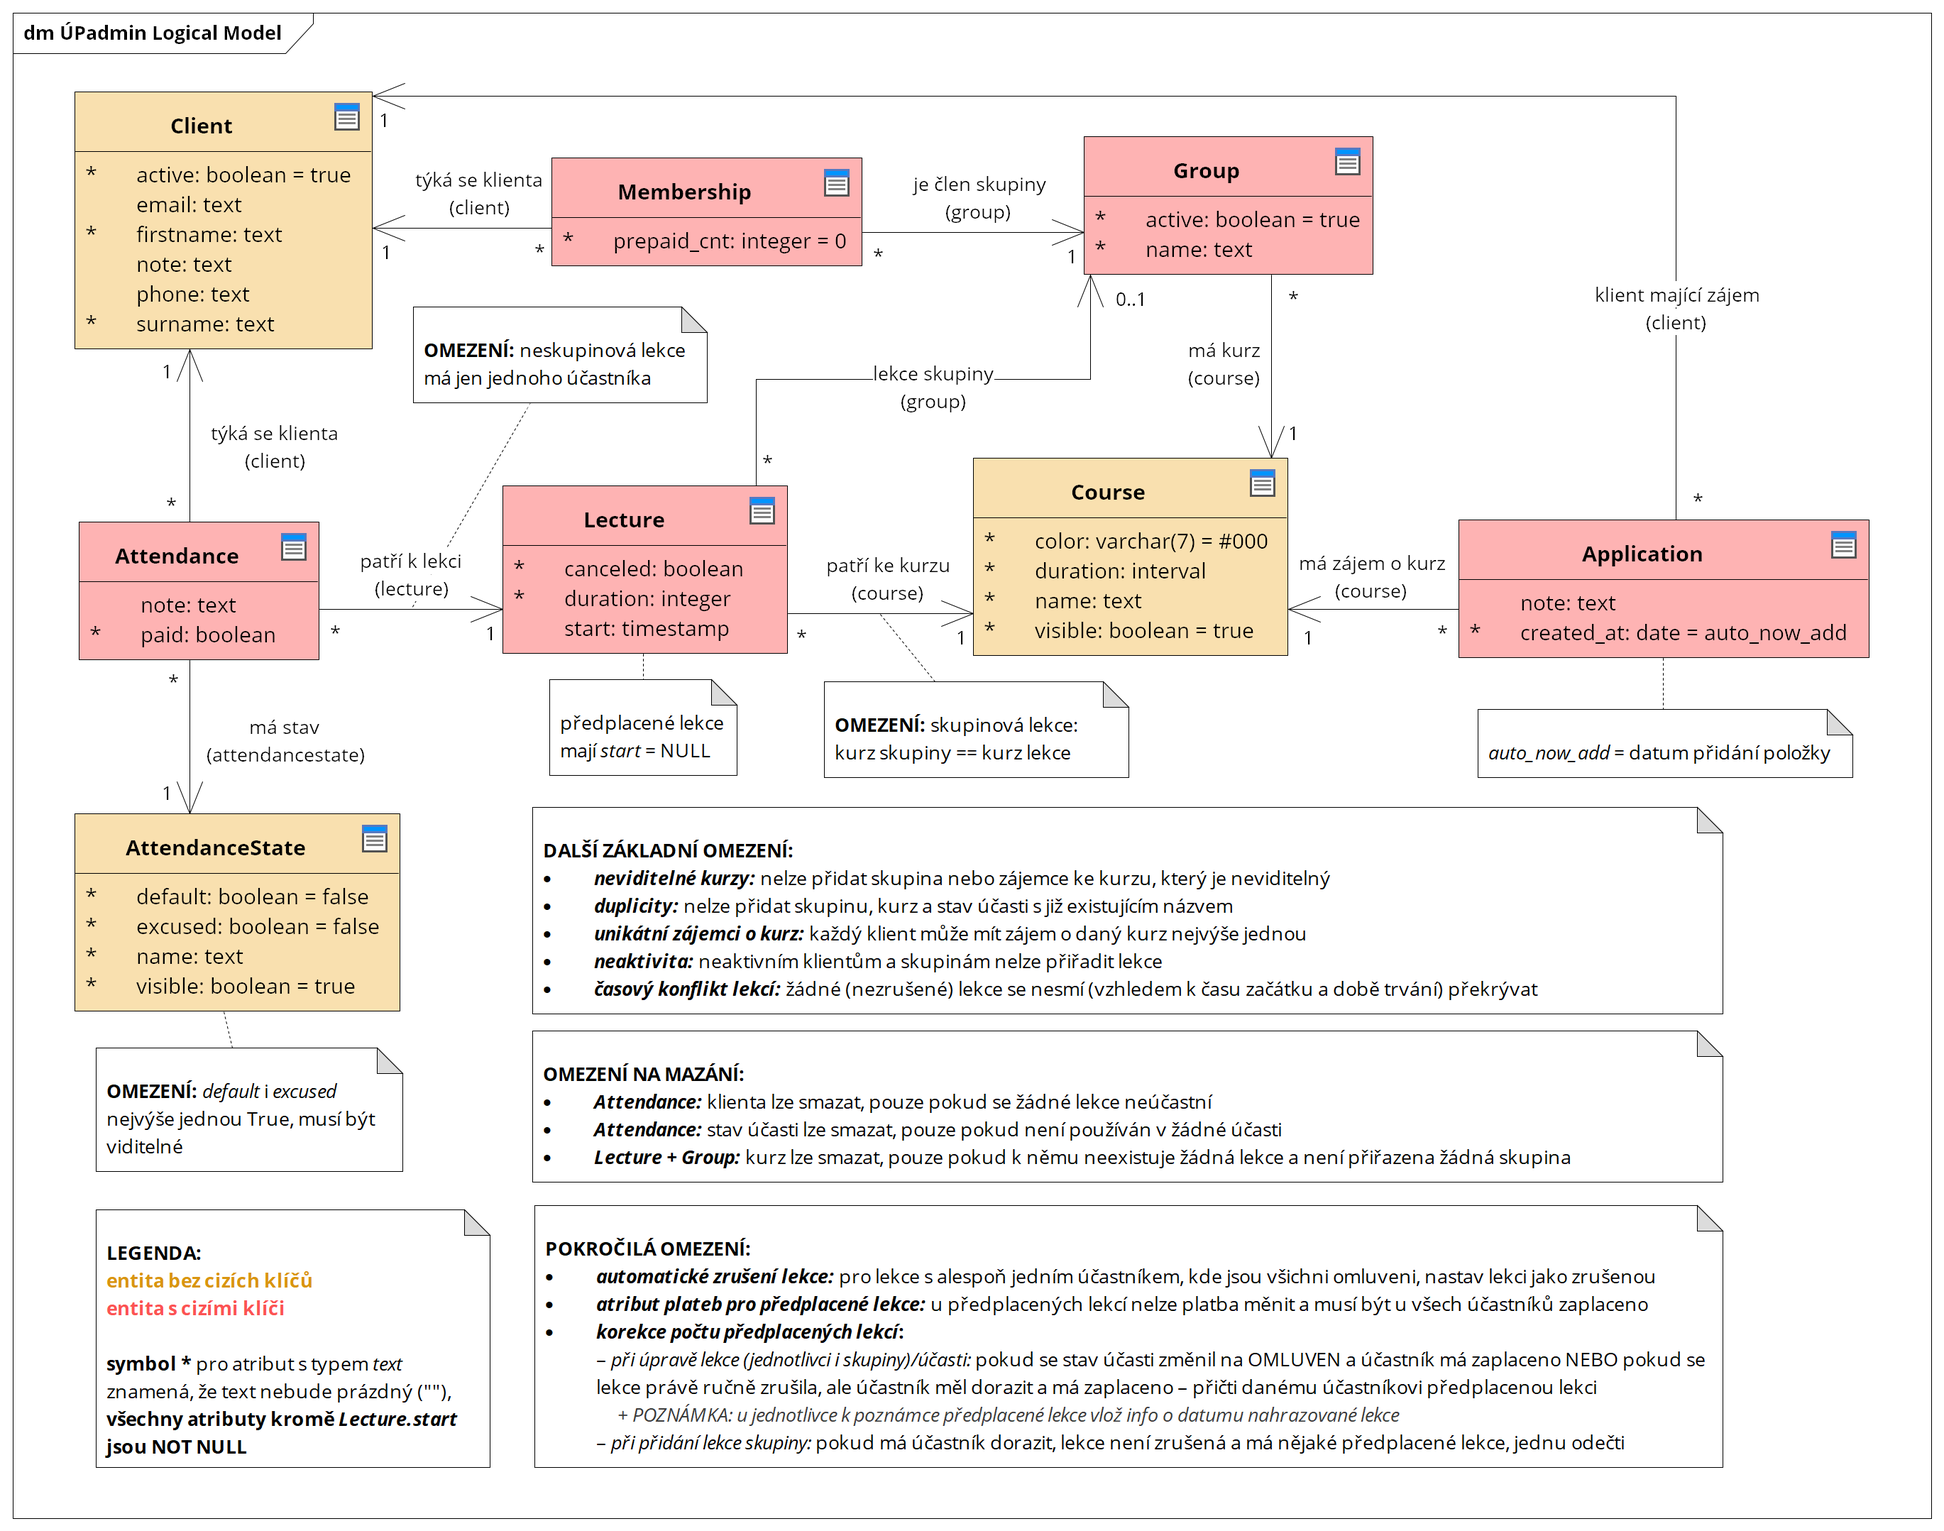
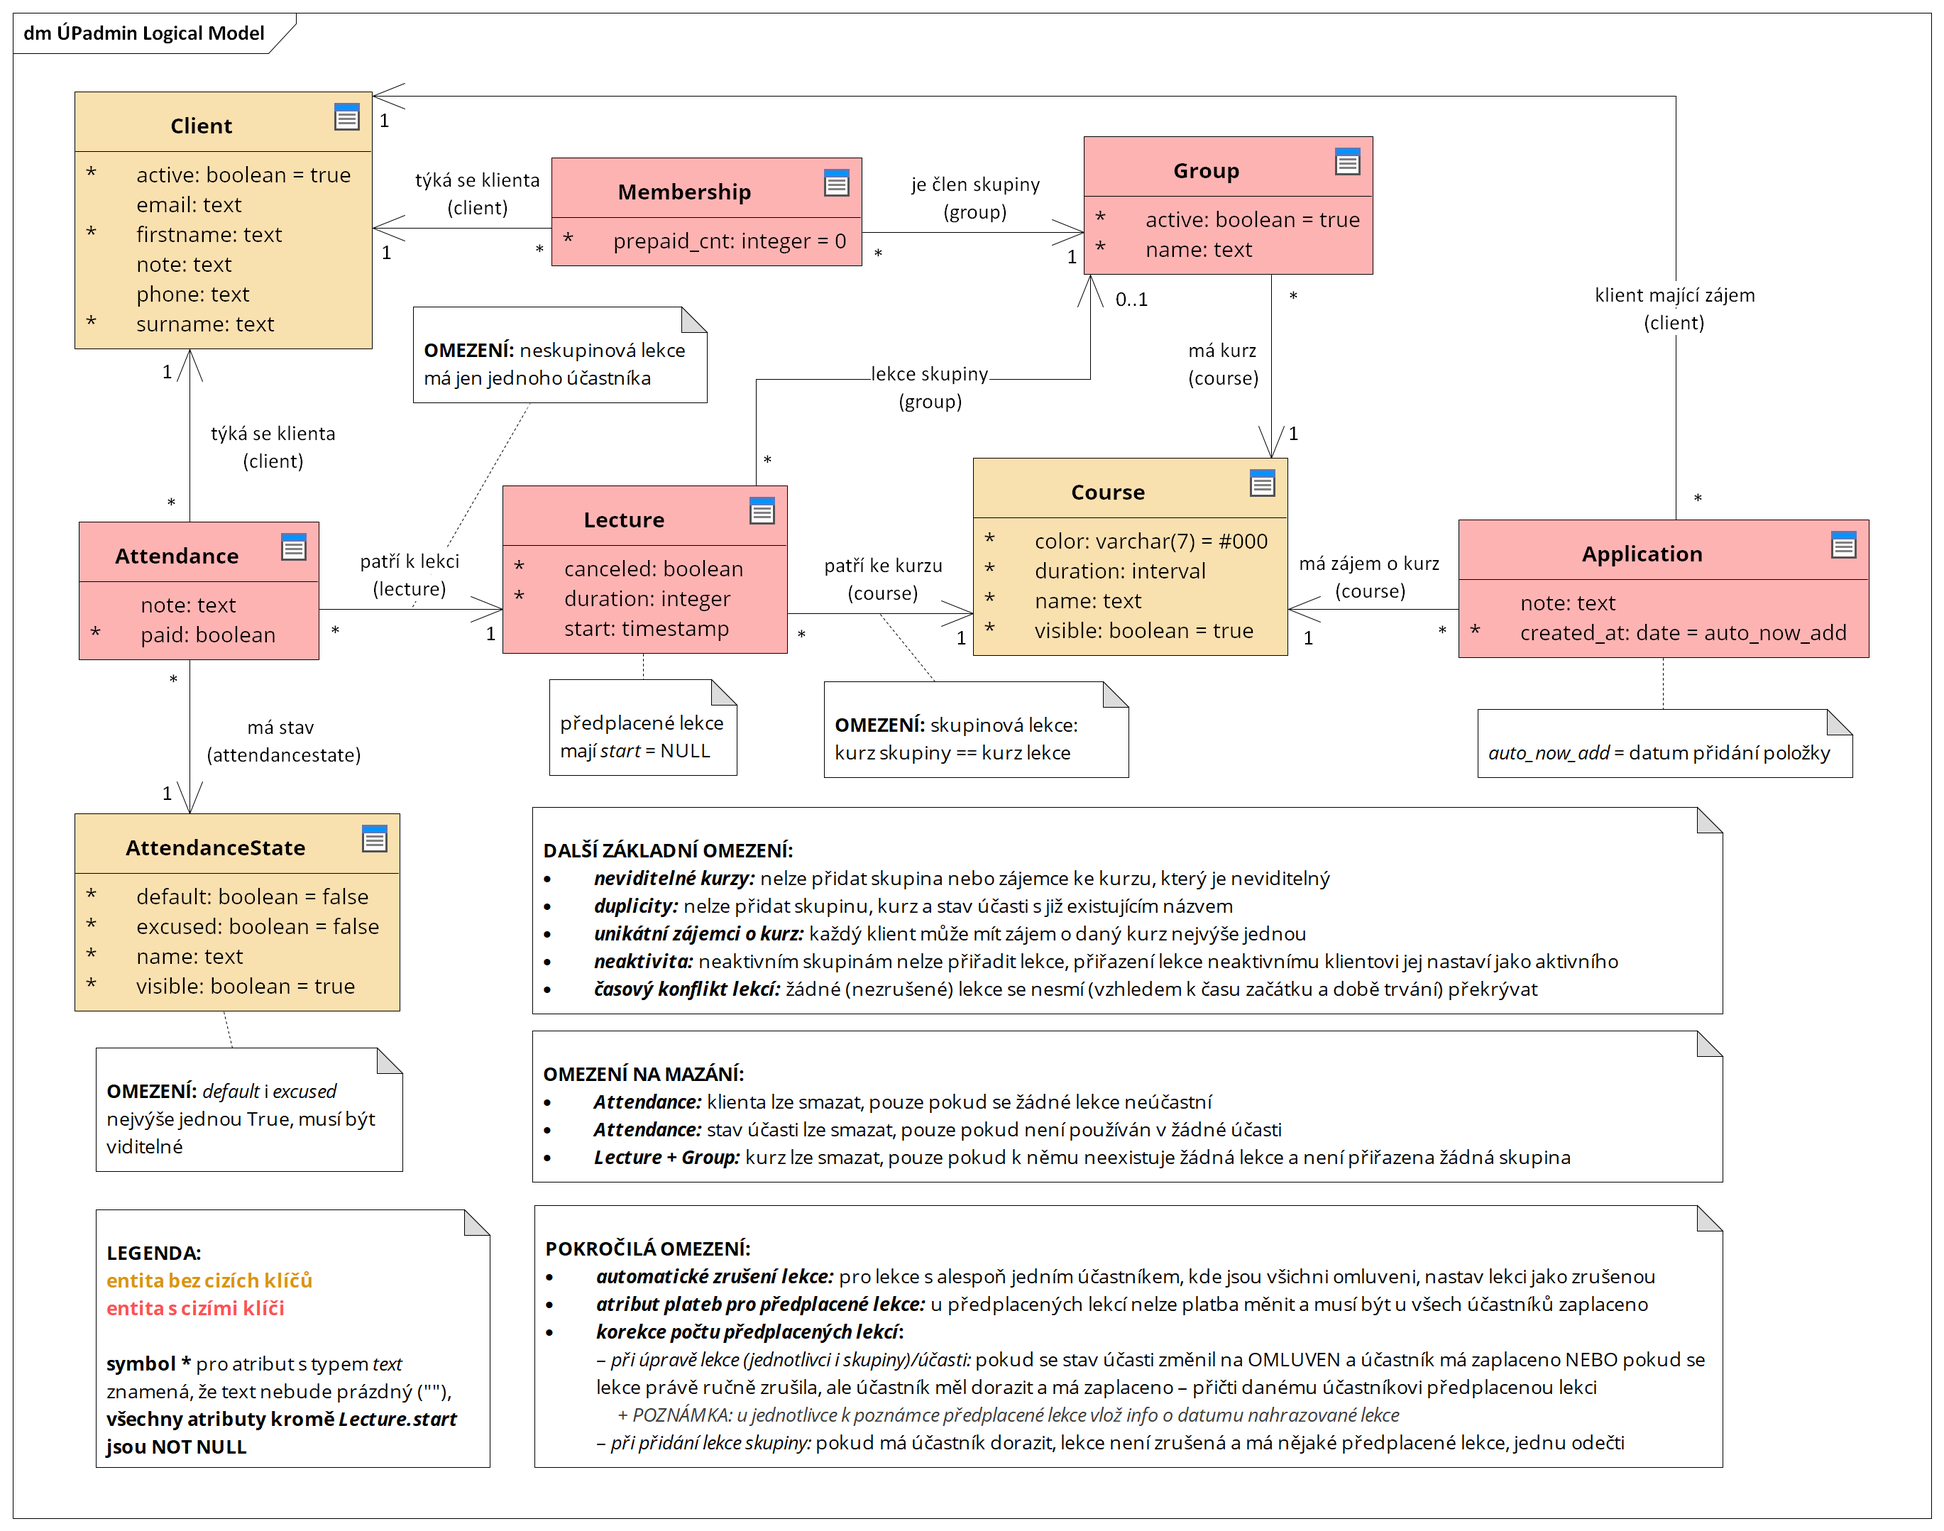
[js] auto nastaveni klienta jako aktivni pri pridani lekce
- nebylo validni pridat lekci neaktivnimu klientovi, to je zbytecne, staci ho udelat aktivnim kdyz se mu lekce pridava, protoze to je zjevne zamerne
- upravy upozorneni na neaktivitu napric aplikaci, dodani upozorneni do FormLectures.tsx

diff --git a/frontend/src/pages/Groups.tsx b/frontend/src/pages/Groups.tsx
@@ -1,5 +1,3 @@
-import { faExclamationTriangle } from "@fortawesome/pro-solid-svg-icons"
-import { FontAwesomeIcon } from "@fortawesome/react-fontawesome"
 import * as React from "react"
 import { Container, Table } from "reactstrap"
 import GroupService from "../api/services/group"
@@ -9,13 +7,14 @@ import CourseName from "../components/CourseName"
 import GroupName from "../components/GroupName"
 import Heading from "../components/Heading"
 import Loading from "../components/Loading"
-import UncontrolledTooltipWrapper from "../components/UncontrolledTooltipWrapper"
+import Tooltip from "../components/Tooltip"
 import {
     CoursesVisibleContextProps,
     WithCoursesVisibleContext
 } from "../contexts/CoursesVisibleContext"
 import { GroupsActiveContextProps, WithGroupsActiveContext } from "../contexts/GroupsActiveContext"
 import ModalGroups from "../forms/ModalGroups"
+import { TEXTS } from "../global/constants"
 import { areAllMembersActive } from "../global/utils"
 import { ModalGroupsData } from "../types/components"
 import { GroupType } from "../types/models"
@@ -100,27 +99,17 @@ class Groups extends React.Component<Props, State> {
                                             <GroupName group={group} link noWrap />{" "}
                                             {group.active &&
                                                 !areAllMembersActive(group.memberships) && (
-                                                    <>
-                                                        <UncontrolledTooltipWrapper
-                                                            placement="right"
-                                                            target={
-                                                                "Group_ActiveGroupWithInactiveClientAlert_" +
-                                                                group.id
-                                                            }>
-                                                            Ve skupině je neaktivní klient (přestože
-                                                            je skupina aktivní), není tedy možné
-                                                            přidávat lekce
-                                                        </UncontrolledTooltipWrapper>
-                                                        <FontAwesomeIcon
-                                                            id={
-                                                                "Group_ActiveGroupWithInactiveClientAlert_" +
-                                                                group.id
-                                                            }
-                                                            icon={faExclamationTriangle}
-                                                            className={"text-danger"}
-                                                            size="1x"
-                                                        />
-                                                    </>
+                                                    <Tooltip
+                                                        postfix={
+                                                            "Group_ActiveGroupWithInactiveClientAlert_" +
+                                                            group.id
+                                                        }
+                                                        placement="right"
+                                                        size="1x"
+                                                        text={
+                                                            TEXTS.WARNING_ACTIVE_GROUP_WITH_INACTIVE_CLIENTS
+                                                        }
+                                                    />
                                                 )}
                                         </td>
                                         <td>

diff --git a/frontend/src/components/PrepaidCounters.tsx b/frontend/src/components/PrepaidCounters.tsx
@@ -1,5 +1,3 @@
-import { faExclamationTriangle } from "@fortawesome/pro-solid-svg-icons"
-import { FontAwesomeIcon } from "@fortawesome/react-fontawesome"
 import * as React from "react"
 import {
     Col,
@@ -13,10 +11,11 @@ import {
     Row
 } from "reactstrap"
 import MembershipService from "../api/services/membership"
+import { TEXTS } from "../global/constants"
 import { MembershipType } from "../types/models"
 import ClientName from "./ClientName"
 import "./PrepaidCounters.css"
-import UncontrolledTooltipWrapper from "./UncontrolledTooltipWrapper"
+import Tooltip from "./Tooltip"
 
 type Props = {
     memberships: Array<MembershipType>
@@ -75,25 +74,14 @@ const PrepaidCounters: React.FC<Props> = props => {
                                 <h5>
                                     <ClientName client={membership.client} link />{" "}
                                     {props.isGroupActive && !membership.client.active && (
-                                        <>
-                                            <UncontrolledTooltipWrapper
-                                                target={
-                                                    "PrepaidCounters_InactiveClientAlert_" +
-                                                    membership.client.id
-                                                }>
-                                                Tento klient není aktivní (přestože skupina aktivní
-                                                je), není tedy možné přidávat této skupině lekce
-                                            </UncontrolledTooltipWrapper>
-                                            <FontAwesomeIcon
-                                                id={
-                                                    "PrepaidCounters_InactiveClientAlert_" +
-                                                    membership.client.id
-                                                }
-                                                icon={faExclamationTriangle}
-                                                className={"text-danger"}
-                                                size="1x"
-                                            />
-                                        </>
+                                        <Tooltip
+                                            postfix={
+                                                "PrepaidCounters_InactiveClientAlert_" +
+                                                membership.client.id
+                                            }
+                                            text={TEXTS.WARNING_INACTIVE_CLIENT_GROUP}
+                                            size="1x"
+                                        />
                                     )}
                                 </h5>
                                 <InputGroup>

diff --git a/frontend/src/forms/FormLectures.tsx b/frontend/src/forms/FormLectures.tsx
@@ -8,6 +8,7 @@ import { FontAwesomeIcon } from "@fortawesome/react-fontawesome"
 import * as React from "react"
 import { ChangeEvent, FormEvent } from "react"
 import {
+    Alert,
     Col,
     CustomInput,
     Form,
@@ -39,7 +40,8 @@ import {
 } from "../contexts/CoursesVisibleContext"
 import {
     DEFAULT_LECTURE_DURATION_GROUP,
-    DEFAULT_LECTURE_DURATION_SINGLE
+    DEFAULT_LECTURE_DURATION_SINGLE,
+    TEXTS
 } from "../global/constants"
 import { prettyDateWithLongDayYear, toISODate, toISOTime } from "../global/funcDateTime"
 import { alertRequired, DefaultValuesForLecture } from "../global/utils"
@@ -578,11 +580,27 @@ class FormLectures extends React.Component<Props, State> {
                             <hr />
                             {this.members.map(member => (
                                 <div key={member.id} data-qa="form_lecture_attendance">
-                                    <h5>
-                                        {!this.isClient(this.props.object) && (
-                                            <ClientName client={member} link />
+                                    {!this.isClient(this.props.object) && (
+                                        <h5>
+                                            <ClientName client={member} link />{" "}
+                                            {!member.active && (
+                                                <Tooltip
+                                                    postfix={
+                                                        "FormLectures_InactiveClientAlert_" +
+                                                        member.id.toString()
+                                                    }
+                                                    text={TEXTS.WARNING_INACTIVE_CLIENT_GROUP}
+                                                    size="1x"
+                                                />
+                                            )}
+                                        </h5>
+                                    )}
+                                    {this.isClient(this.props.object) &&
+                                        !this.props.object.active && (
+                                            <Alert color="warning">
+                                                {TEXTS.WARNING_INACTIVE_CLIENT}
+                                            </Alert>
                                         )}
-                                    </h5>
                                     <FormGroup row className="align-items-center">
                                         <Col sm={4}>
                                             <InputGroup>

diff --git a/frontend/src/pages/Card.tsx b/frontend/src/pages/Card.tsx
@@ -22,6 +22,7 @@ import {
 import ModalClients from "../forms/ModalClients"
 import ModalGroups from "../forms/ModalGroups"
 import ModalLectures from "../forms/ModalLectures"
+import { TEXTS } from "../global/constants"
 import { prettyDateWithDayYear, prettyTime } from "../global/funcDateTime"
 import {
     courseDuration,
@@ -232,12 +233,9 @@ class Card extends React.Component<Props, State> {
                                 <Col sm="9" md="7" lg="5" xl="3">
                                     {object && !object.active && (
                                         <Alert color="warning">
-                                            <strong>
-                                                {this.isClient(object) ? "Klient" : "Skupina"} není
-                                                aktivní
-                                            </strong>{" "}
-                                            &ndash; nelze {this.isClient(object) ? "mu" : "jí"} tedy
-                                            přidávat lekce.
+                                            {this.isClient(object)
+                                                ? TEXTS.WARNING_INACTIVE_CLIENT
+                                                : TEXTS.WARNING_INACTIVE_GROUP}
                                         </Alert>
                                     )}
                                     <ListGroup>

diff --git a/frontend/src/components/Tooltip.tsx b/frontend/src/components/Tooltip.tsx
@@ -1,24 +1,27 @@
 import { faInfoCircle } from "@fortawesome/pro-solid-svg-icons"
-import { FontAwesomeIcon } from "@fortawesome/react-fontawesome"
+import { FontAwesomeIcon, FontAwesomeIconProps } from "@fortawesome/react-fontawesome"
 import * as React from "react"
+import { UncontrolledTooltipProps } from "reactstrap"
 import UncontrolledTooltipWrapper from "./UncontrolledTooltipWrapper"
 
 type Props = {
     postfix: string
     text: React.ReactNode
+    size?: FontAwesomeIconProps["size"]
+    placement?: UncontrolledTooltipProps["placement"]
 }
 
 /** Komponenta pro zobrazení titulku po najetí myší nad daný element. */
-const Tooltip: React.FC<Props> = ({ postfix, text }) => (
+const Tooltip: React.FC<Props> = ({ postfix, text, size = "lg", placement = "bottom" }) => (
     <>
-        <UncontrolledTooltipWrapper placement="bottom" target={"Tooltip_" + postfix}>
+        <UncontrolledTooltipWrapper placement={placement} target={"Tooltip_" + postfix}>
             {text}
         </UncontrolledTooltipWrapper>
         <FontAwesomeIcon
             id={"Tooltip_" + postfix}
             icon={faInfoCircle}
             className="text-warning"
-            size="lg"
+            size={size}
         />
     </>
 )

diff --git a/frontend/src/forms/FormClients.tsx b/frontend/src/forms/FormClients.tsx
@@ -20,6 +20,7 @@ import DeleteButton from "../components/buttons/DeleteButton"
 import SubmitButton from "../components/buttons/SubmitButton"
 import ClientName from "../components/ClientName"
 import Tooltip from "../components/Tooltip"
+import { TEXTS } from "../global/constants"
 import { capitalizeString, prettyPhone } from "../global/utils"
 import { ModalClientsData } from "../types/components"
 import { ClientPostApiDummy, ClientType } from "../types/models"
@@ -220,7 +221,7 @@ export default class FormClients extends React.Component<Props, State> {
                             {!active && (
                                 <Tooltip
                                     postfix="active"
-                                    text="Neaktivním klientům nelze vytvořit lekci (ani skupinovou)."
+                                    text={TEXTS.WARNING_INACTIVE_CLIENT_INFO}
                                 />
                             )}
                         </Col>

diff --git a/frontend/src/global/constants.ts b/frontend/src/global/constants.ts
@@ -18,7 +18,15 @@ export const JWT_HEADER_PREFIX = "Bearer "
 
 /** Texty používané napříč aplikací. */
 export const TEXTS = Object.freeze({
-    NO_RESULTS: "Nic nenalezeno"
+    NO_RESULTS: "Nic nenalezeno",
+    WARNING_INACTIVE_CLIENT_GROUP:
+        "Klient není aktivní (přestože skupina aktivní je) – přidáním nové lekce se změní na aktivního.",
+    WARNING_INACTIVE_CLIENT_INFO: "Přidáním nové lekce se klient stane opět aktivním.",
+    WARNING_INACTIVE_CLIENT:
+        "Klient není aktivní – přidáním nové lekce se klient stane opět aktivním.",
+    WARNING_INACTIVE_GROUP: "Skupina není aktivní – nelze jí tedy přidávat nové lekce.",
+    WARNING_ACTIVE_GROUP_WITH_INACTIVE_CLIENTS:
+        "Ve skupině jsou neaktivní klienti – přidáním nové lekce se změní na aktivní."
 })
 
 /** Výchozí délka trvání lekce jednotlivce. */

diff --git a/api/serializers.py b/api/serializers.py
@@ -394,6 +394,10 @@ class LectureSerializer(serializers.ModelSerializer):
         # vytvoreni jednotlivych ucasti
         for attendance_data in attendances_data:
             client = attendance_data.pop("client")
+            # pokud klient neni aktivni, nastav ho jako aktivniho
+            if not client.active:
+                client.active = True
+                client.save()
             # pokud se jedna o skupinu, proved korekce poctu predplacenych lekci
             if group is not None:
                 # najdi clenstvi nalezici klientovi v teto skupine
@@ -454,15 +458,6 @@ class LectureSerializer(serializers.ModelSerializer):
         # nastav lekci jako zrusenou pokud nikdo nema prijit
         LectureHelpers.cancel_lecture_if_nobody_arrives(instance)
         return instance
-
-    def validate_attendances(self, attendances: dict) -> dict:
-        """
-        Ověří, že všichni klienti učastnící se lekce jsou aktivní (jen když lekci vytváříme).
-        """
-        if not self.instance:
-            for attendance in attendances:
-                BaseValidators.validate_client_is_active(attendance["client"])
-        return attendances
 
     @staticmethod
     def validate_group_id(group: Group) -> Group:
